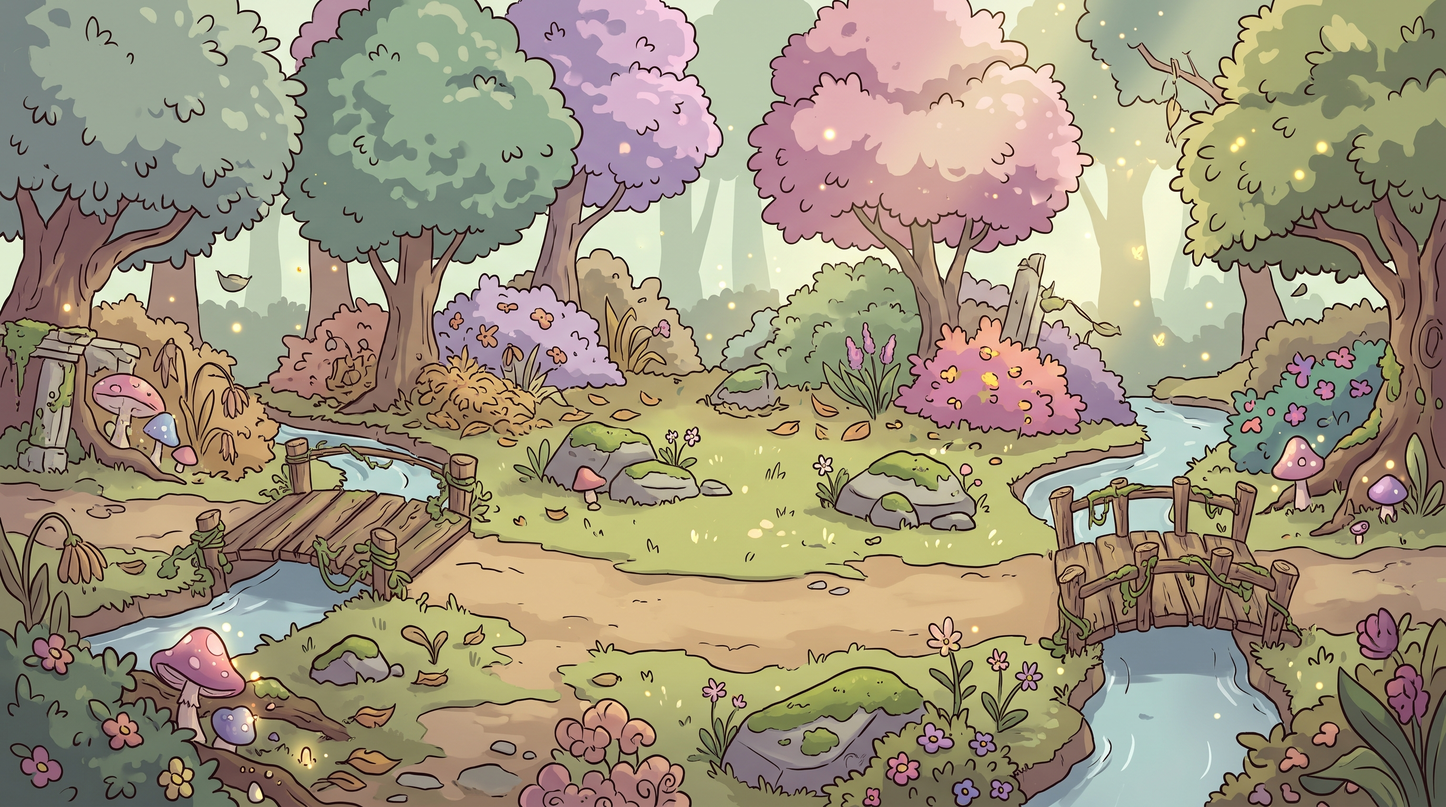
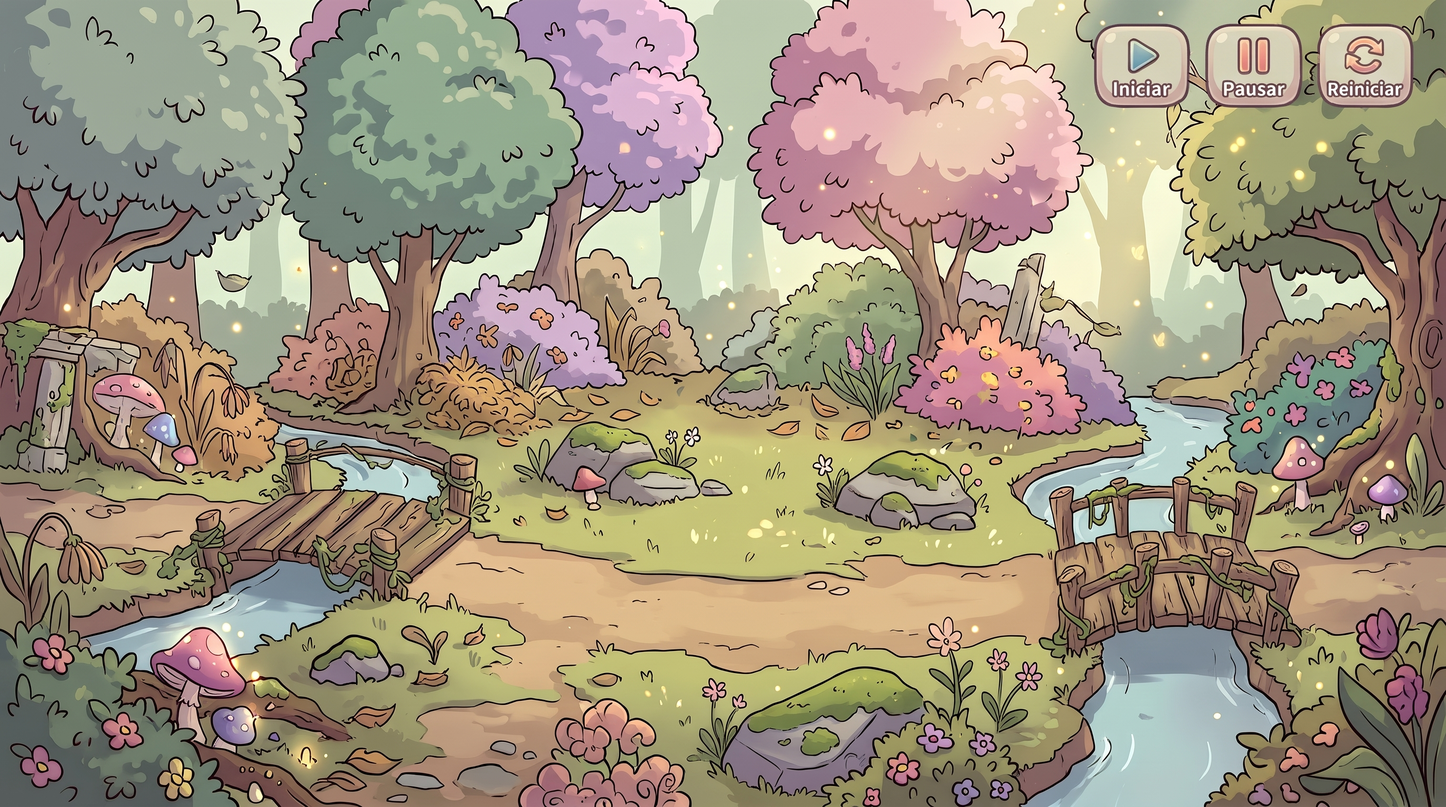
feat: adicionar pausa, retomada e reinício pelo menu

diff --git a/core/src/main/java/br/mackenzie/Main.java b/core/src/main/java/br/mackenzie/Main.java
@@ -3,18 +3,30 @@ package br.mackenzie;
 import com.badlogic.gdx.ApplicationAdapter;
 import com.badlogic.gdx.Gdx;
 import com.badlogic.gdx.Input;
+import com.badlogic.gdx.graphics.Cursor;
 import com.badlogic.gdx.graphics.GL20;
 import com.badlogic.gdx.graphics.Texture;
 import com.badlogic.gdx.graphics.g2d.SpriteBatch;
 import com.badlogic.gdx.graphics.glutils.ShapeRenderer;
 import com.badlogic.gdx.math.MathUtils;
+import com.badlogic.gdx.math.Rectangle;
+import com.badlogic.gdx.math.Vector2;
 import com.badlogic.gdx.utils.viewport.FitViewport;
 
 public class Main extends ApplicationAdapter {
+    private enum Estado { MENU, FASE1 }
+
     private static final float LARGURA_MUNDO = 8.0f;
     private static final float ALTURA_MUNDO = 4.5f;   // 16:9, igual ao cenário
     private static final float LARGURA_BARRA = 0.5f;
     private static final float ALTURA_BARRA = 3.5f;
+    private static final float PLAY_X = 6.02f;
+    private static final float PLAY_Y = 0.95f;
+    private static final float PLAY_RAIO = 0.28f;
+    private static final boolean DEBUG_HITBOX = false;
+    private static final Rectangle BTN_INICIAR = new Rectangle(6.07f, 3.90f, 0.51f, 0.46f);
+    private static final Rectangle BTN_PAUSAR = new Rectangle(6.68f, 3.90f, 0.52f, 0.46f);
+    private static final Rectangle BTN_REINICIAR = new Rectangle(7.30f, 3.90f, 0.52f, 0.46f);
 
     // ---- Fada ----
     private static final float ALTURA_FADA = 1.3f;       // altura da fada no mundo
@@ -22,10 +34,16 @@ public class Main extends ApplicationAdapter {
     private static final float VELOCIDADE_FADA = 2.0f;   // unidades do mundo por segundo
 
     private final ForceInput entradaForca;
+    private Estado estado = Estado.MENU;
+    private boolean pausado = false;
+    private float forcaAtual;
+    private Cursor.SystemCursor cursorAtual = Cursor.SystemCursor.Arrow;
     private FitViewport viewport;
     private ShapeRenderer desenhador;
     private SpriteBatch lote;
+    private final Vector2 toque = new Vector2();
 
+    private Texture texMenu;
     private Texture texCenario;
     private Texture texFadaParada;
     private Texture texFadaAndando;
@@ -50,6 +68,7 @@ public class Main extends ApplicationAdapter {
         desenhador = new ShapeRenderer();
         lote = new SpriteBatch();
 
+        texMenu = carregar("Menu.jpg");
         texCenario = carregar("CenárioPrincipal.jpg");
         texFadaParada = carregar("Fada Estatica.png");
         texFadaAndando = carregar("Fada Andando.png");
@@ -68,7 +87,7 @@ public class Main extends ApplicationAdapter {
         viewport.update(largura, altura, true);
     }
 
-    private void atualizar(float delta) {
+    private void atualizarFase1(float delta) {
         boolean direita = Gdx.input.isKeyPressed(Input.Keys.RIGHT);
         boolean esquerda = Gdx.input.isKeyPressed(Input.Keys.LEFT);
         boolean teclaCima = Gdx.input.isKeyPressed(Input.Keys.UP);
@@ -138,17 +157,7 @@ public class Main extends ApplicationAdapter {
                 flip, false);
     }
 
-    @Override
-    public void render() {
-        atualizar(Gdx.graphics.getDeltaTime());
-
-        Gdx.gl.glClearColor(0.08f, 0.08f, 0.12f, 1.0f);
-        Gdx.gl.glClear(GL20.GL_COLOR_BUFFER_BIT);
-
-        viewport.apply();
-        lote.setProjectionMatrix(viewport.getCamera().combined);
-        desenhador.setProjectionMatrix(viewport.getCamera().combined);
-
+    private void desenharFase1() {
         lote.begin();
         lote.draw(texCenario, 0, 0, LARGURA_MUNDO, ALTURA_MUNDO);
         desenharFada();
@@ -160,14 +169,142 @@ public class Main extends ApplicationAdapter {
         desenhador.rect(0.3f, 0.5f, LARGURA_BARRA, ALTURA_BARRA);
         desenhador.setColor(0.4f, 0.85f, 0.55f, 1.0f);
         desenhador.rect(0.3f, 0.5f, LARGURA_BARRA,
-                ALTURA_BARRA * entradaForca.getForce());
+                ALTURA_BARRA * forcaAtual);
         desenhador.end();
+
+        if (DEBUG_HITBOX) {
+            desenhador.begin(ShapeRenderer.ShapeType.Line);
+            desenhador.setColor(1f, 1f, 1f, 1f);
+            desenhador.rect(BTN_INICIAR.x, BTN_INICIAR.y, BTN_INICIAR.width, BTN_INICIAR.height);
+            desenhador.rect(BTN_PAUSAR.x, BTN_PAUSAR.y, BTN_PAUSAR.width, BTN_PAUSAR.height);
+            desenhador.rect(BTN_REINICIAR.x, BTN_REINICIAR.y, BTN_REINICIAR.width, BTN_REINICIAR.height);
+            desenhador.end();
+        }
+    }
+
+    private void iniciarFase1() {
+        estado = Estado.FASE1;
+        atualizarCursor(Cursor.SystemCursor.Arrow);
+        pausado = false;
+        forcaAtual = 0f;
+        fadaX = LARGURA_MUNDO / 2f;
+        fadaY = CHAO_Y;
+        andando = false;
+        subindo = false;
+        descendo = false;
+        viradaParaDireita = true;
+        tempoAndando = 0f;
+    }
+
+    private Rectangle botaoSobMouse() {
+        if (BTN_REINICIAR.contains(toque)) {
+            return BTN_REINICIAR;
+        } else if (pausado && BTN_INICIAR.contains(toque)) {
+            return BTN_INICIAR;
+        } else if (!pausado && BTN_PAUSAR.contains(toque)) {
+            return BTN_PAUSAR;
+        }
+        return null;
+    }
+
+    private void voltarAoMenu() {
+        estado = Estado.MENU;
+        pausado = false;
+        atualizarCursor(Cursor.SystemCursor.Arrow);
+    }
+
+    private void atualizarCursor(Cursor.SystemCursor cursor) {
+        if (cursorAtual != cursor) {
+            Gdx.graphics.setSystemCursor(cursor);
+            cursorAtual = cursor;
+        }
+    }
+
+    private void atualizarEntradaFase1() {
+        viewport.unproject(toque.set(Gdx.input.getX(), Gdx.input.getY()));
+        Rectangle botao = botaoSobMouse();
+        atualizarCursor(botao != null ? Cursor.SystemCursor.Hand : Cursor.SystemCursor.Arrow);
+
+        if (Gdx.input.justTouched() && botao != null) {
+            if (botao == BTN_REINICIAR) {
+                voltarAoMenu();
+                return;
+            } else if (botao == BTN_INICIAR) {
+                pausado = false;
+            } else if (botao == BTN_PAUSAR) {
+                pausado = true;
+            }
+        }
+    }
+
+    private void desenharMenu() {
+        viewport.unproject(toque.set(Gdx.input.getX(), Gdx.input.getY()));
+        boolean sobrePlay = toque.dst(PLAY_X, PLAY_Y) <= PLAY_RAIO;
+        atualizarCursor(sobrePlay ? Cursor.SystemCursor.Hand : Cursor.SystemCursor.Arrow);
+
+        if (Gdx.input.justTouched() && sobrePlay) {
+            iniciarFase1();
+        }
+
+        lote.begin();
+        lote.draw(texMenu, 0, 0, LARGURA_MUNDO, ALTURA_MUNDO);
+        lote.end();
+
+        if (sobrePlay) {
+            Gdx.gl.glEnable(GL20.GL_BLEND);
+            Gdx.gl.glBlendFunc(GL20.GL_SRC_ALPHA, GL20.GL_ONE_MINUS_SRC_ALPHA);
+            desenhador.begin(ShapeRenderer.ShapeType.Filled);
+            desenhador.setColor(1f, 0.84f, 0f, 0.25f);
+            desenhador.circle(PLAY_X, PLAY_Y, PLAY_RAIO);
+            desenhador.end();
+            Gdx.gl.glDisable(GL20.GL_BLEND);
+        }
+
+        if (DEBUG_HITBOX) {
+            desenhador.begin(ShapeRenderer.ShapeType.Line);
+            desenhador.setColor(1f, 1f, 1f, 1f);
+            desenhador.circle(PLAY_X, PLAY_Y, PLAY_RAIO);
+            desenhador.end();
+        }
+    }
+
+    @Override
+    public void render() {
+        Gdx.gl.glClearColor(0.08f, 0.08f, 0.12f, 1.0f);
+        Gdx.gl.glClear(GL20.GL_COLOR_BUFFER_BIT);
+
+        viewport.apply();
+        lote.setProjectionMatrix(viewport.getCamera().combined);
+        desenhador.setProjectionMatrix(viewport.getCamera().combined);
+
+        switch (estado) {
+            case MENU:
+                desenharMenu();
+                break;
+            case FASE1: {
+                boolean estavaPausado = pausado;
+                atualizarEntradaFase1();
+                if (estado == Estado.MENU) {
+                    lote.begin();
+                    lote.draw(texMenu, 0, 0, LARGURA_MUNDO, ALTURA_MUNDO);
+                    lote.end();
+                    break;
+                }
+                if (!estavaPausado && !pausado) {
+                    atualizarFase1(Gdx.graphics.getDeltaTime());
+                    forcaAtual = entradaForca.getForce();
+                }
+                desenharFase1();
+                break;
+            }
+        }
     }
 
     @Override
     public void dispose() {
         desenhador.dispose();
         lote.dispose();
+        texMenu.dispose();
         texCenario.dispose();
         texFadaParada.dispose();
         texFadaAndando.dispose();
